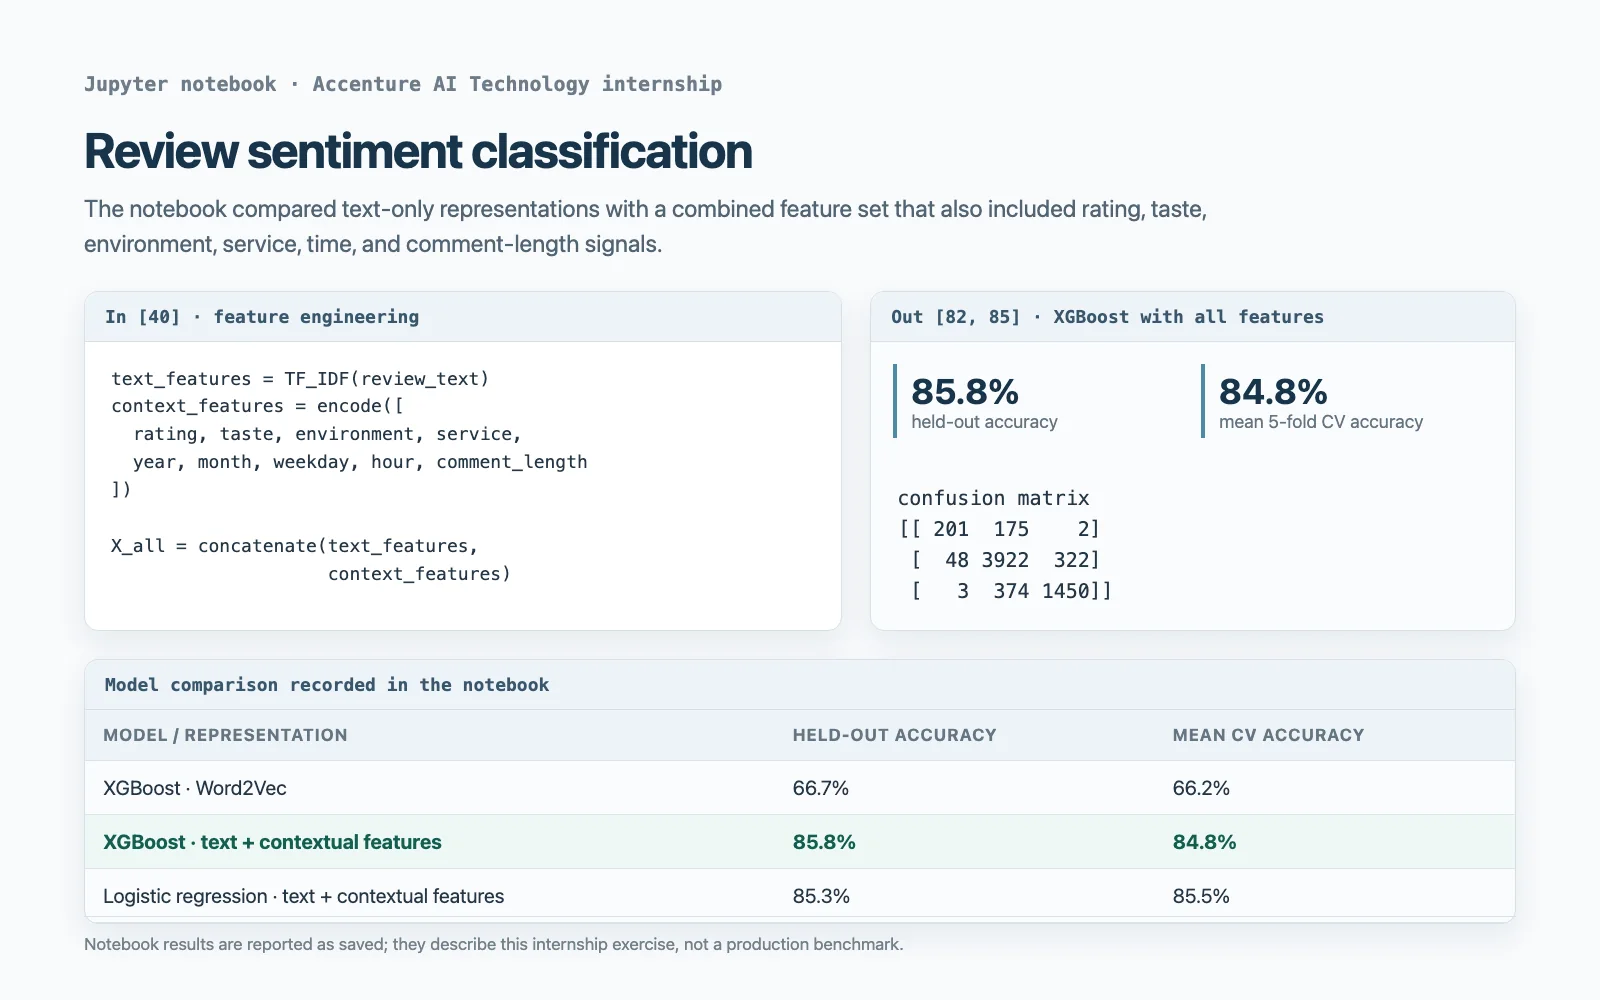
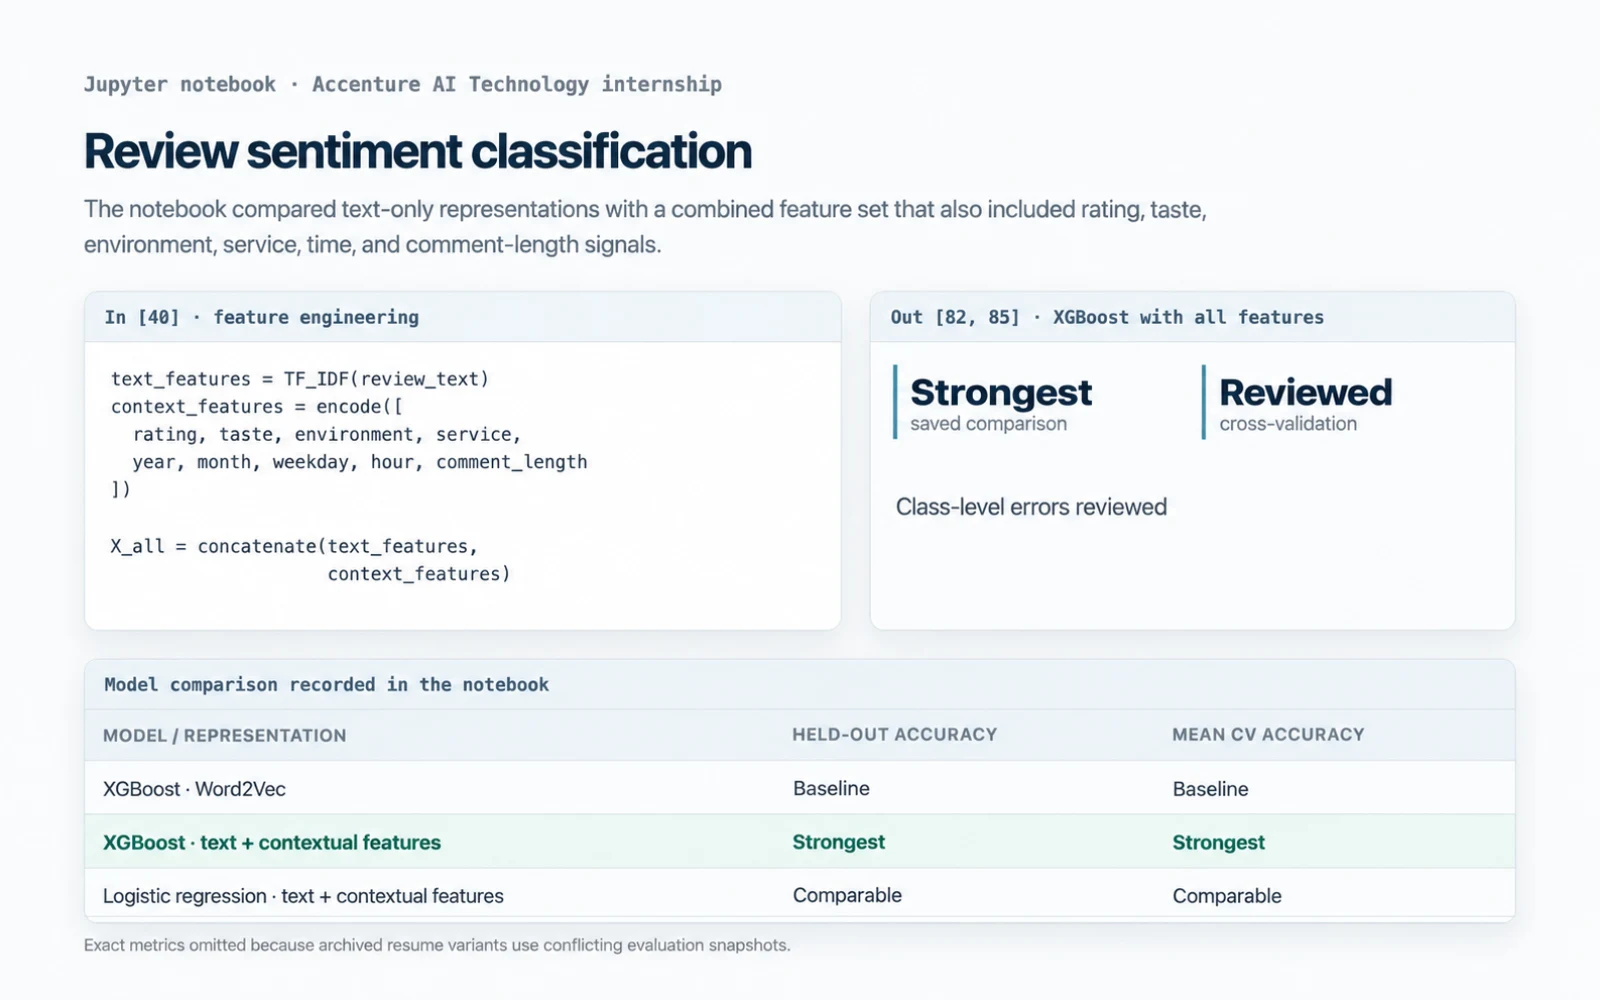
fix: align internship public evidence

diff --git a/app.js b/app.js
@@ -39,7 +39,7 @@ function internshipEntry(i,description=i.excerpt){const body=`<div class="row"><
 function overview(){const selectedInternships=CONTENT.selectedInternships.map(item=>{const internship=CONTENT.internships.find(i=>i.id===item.id);return internshipEntry(internship,item.description||internship.excerpt)}).join('');return `<section id="about" class="intro"><h2>${label('About me','关于我')}</h2><p>${label("I am a master's student in Computer Engineering at Columbia University. My interests include AI applications, full-stack software development, and data systems.",'我目前在 Columbia University（哥伦比亚大学）攻读 Computer Engineering（计算机工程）硕士，关注 AI 应用、全栈软件开发与数据系统。')}</p><p>${label('Before Columbia, I studied Computing and Software Systems at the University of Melbourne. My experience spans university projects and internships across China, Australia, and the United States.','此前，我在 The University of Melbourne（墨尔本大学）学习 Computing and Software Systems（计算与软件系统）。我的经历涵盖大学项目与实习，学习和工作足迹跨越中国、澳大利亚与美国。')}</p><p>${label('Here I share the projects I have worked on, my contributions, and what I learned along the way.','这里记录我参与的项目、具体贡献，以及一路积累的思考与经验。')}</p></section>${education()}<section id="selected-internships"><div class="row"><h2>${label('Selected internships','精选实习')}</h2><a class="entry-link" href="#internships">${label('View all internships','查看所有实习')}</a></div>${selectedInternships}</section><section id="selected"><div class="row"><h2>${label('Selected projects','精选项目')}</h2><a class="entry-link" href="#projects">${label('View all projects','查看所有项目')}</a></div>${CONTENT.selected.map(s=>{const p=CONTENT.projects.find(p=>p.id===s.id);return entry(p,s.description||p.summary)}).join('')}</section>`;}
 function internshipImage(item){const srcset=item.thumbnailWidth<item.width?` srcset="${esc(item.thumbnail)} ${item.thumbnailWidth}w, ${esc(item.src)} ${item.width}w"`:'';return `<figure><a href="${esc(item.src)}" data-gallery-preview aria-haspopup="dialog" aria-label="${label('Open larger image: ','查看大图：')}${esc(t(item.alt))}"><img src="${esc(item.thumbnail)}"${srcset} sizes="(max-width: 640px) calc(100vw - 44px), (max-width: 900px) 65vw, 800px" width="${item.width}" height="${item.height}" loading="lazy" decoding="async" alt="${esc(t(item.alt))}"></a><figcaption>${esc(t(item.caption))}</figcaption></figure>`;}
 function selectOptions(values,current){return `<option value="all">${label('All','全部')}</option>`+Object.entries(values).map(([key,value])=>`<option value="${key}" ${current===key?'selected':''}>${esc(t(value))}</option>`).join('');}
-function internships(){return `<section class="internships-page"><h2 tabindex="-1">${label('Internship experience','实习经历')}</h2><p class="page-intro">${label('Explore internships across manufacturing data, applied AI, and software delivery.','浏览制造业数据、应用型 AI 与软件交付方向的实习经历。')}</p><div class="search-field"><label for="internship-search">${label('Search internships','搜索实习')}</label><input id="internship-search" type="search" value="${esc(internshipFilters.query)}" placeholder="${label('Company, role, technology, or keyword…','公司、岗位、技术栈或关键词…')}" autocomplete="off"></div><div class="filters"><label>${label('Location','地点')}<select id="internship-region">${selectOptions(internshipRegions,internshipFilters.region)}</select></label><label>${label('Role','岗位')}<select id="internship-role">${selectOptions(internshipRoles,internshipFilters.role)}</select></label></div><div class="filter-status"><div id="internship-result-count" class="results" role="status" aria-live="polite"></div><button id="reset-internship-filters">${label('Clear filters','清除筛选')}</button></div><div id="internship-results"></div></section>`;}
+function internships(){return `<section class="internships-page"><h2 tabindex="-1">${label('Internship experience','实习经历')}</h2><p class="page-intro">${label('Three internships across manufacturing data, applied AI, and software delivery in the United States, China, and remote collaboration. The summaries focus on work I can discuss publicly; internal code, customer information, and proprietary materials are intentionally excluded.','三段实习经历覆盖制造业数据、应用型 AI 与软件交付，工作场景横跨美国、中国与远程协作。以下内容只保留可公开讨论的高层成果，内部代码、客户信息与专有资料均不展示。')}</p><div class="search-field"><label for="internship-search">${label('Search internships','搜索实习')}</label><input id="internship-search" type="search" value="${esc(internshipFilters.query)}" placeholder="${label('Company, role, technology, or keyword…','公司、岗位、技术栈或关键词…')}" autocomplete="off"></div><div class="filters"><label>${label('Location','地点')}<select id="internship-region">${selectOptions(internshipRegions,internshipFilters.region)}</select></label><label>${label('Role','岗位')}<select id="internship-role">${selectOptions(internshipRoles,internshipFilters.role)}</select></label></div><div class="filter-status"><div id="internship-result-count" class="results" role="status" aria-live="polite"></div><button id="reset-internship-filters">${label('Clear filters','清除筛选')}</button></div><div id="internship-results"></div></section>`;}
 function searchableStrings(value){if(typeof value==='string')return [value];if(Array.isArray(value))return value.flatMap(searchableStrings);if(value&&typeof value==='object')return Object.values(value).flatMap(searchableStrings);return [];}
 function internshipMatches(i){const tokens=internshipFilters.query.normalize('NFKC').toLowerCase().trim().split(/\s+/).filter(Boolean);const text=[...searchableStrings(i),...searchableStrings(internshipRegions[i.region]),...searchableStrings(internshipRoles[i.roleKey])].join(' ').normalize('NFKC').toLowerCase();return (internshipFilters.region==='all'||internshipFilters.region===i.region)&&(internshipFilters.role==='all'||internshipFilters.role===i.roleKey)&&tokens.every(token=>text.includes(token));}
 function updateInternshipResults(){const found=CONTENT.internships.filter(internshipMatches);document.querySelector('#internship-result-count').textContent=t([`${found.length} of ${CONTENT.internships.length} internships`,`${found.length} / ${CONTENT.internships.length} 段实习`]);document.querySelector('#internship-results').innerHTML=found.map(i=>internshipEntry(i)).join('')||`<p class="empty">${label('No matching internships. Try another keyword or clear the filters.','没有匹配的实习，请更换关键词或清除筛选。')}</p>`;}
